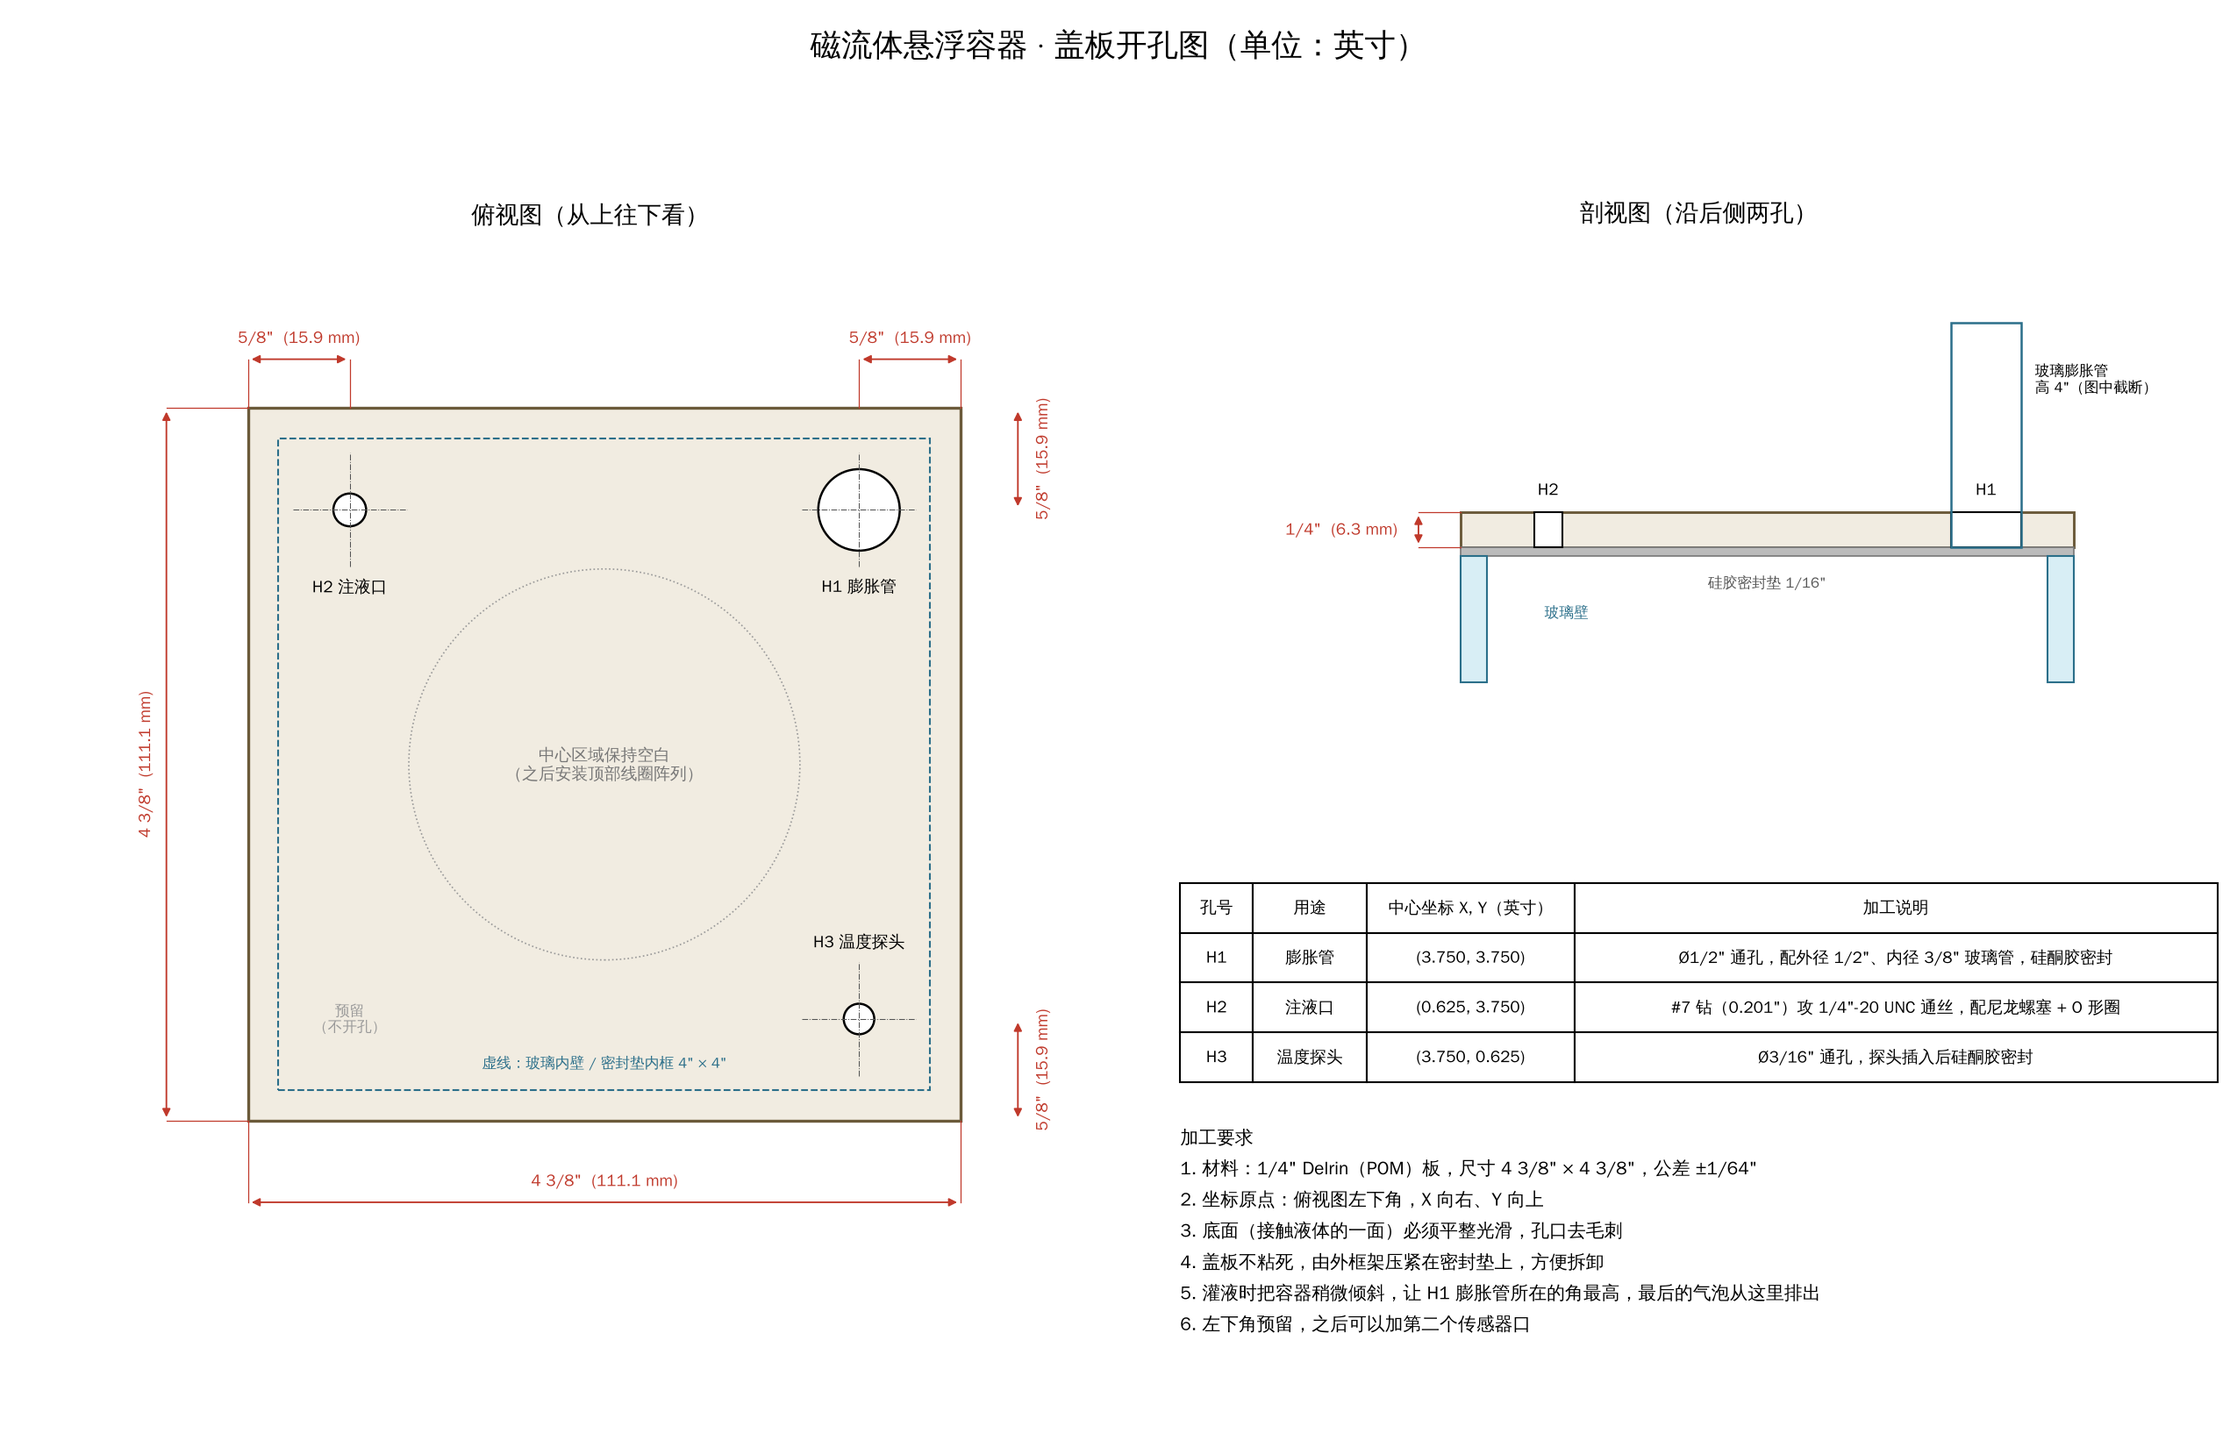
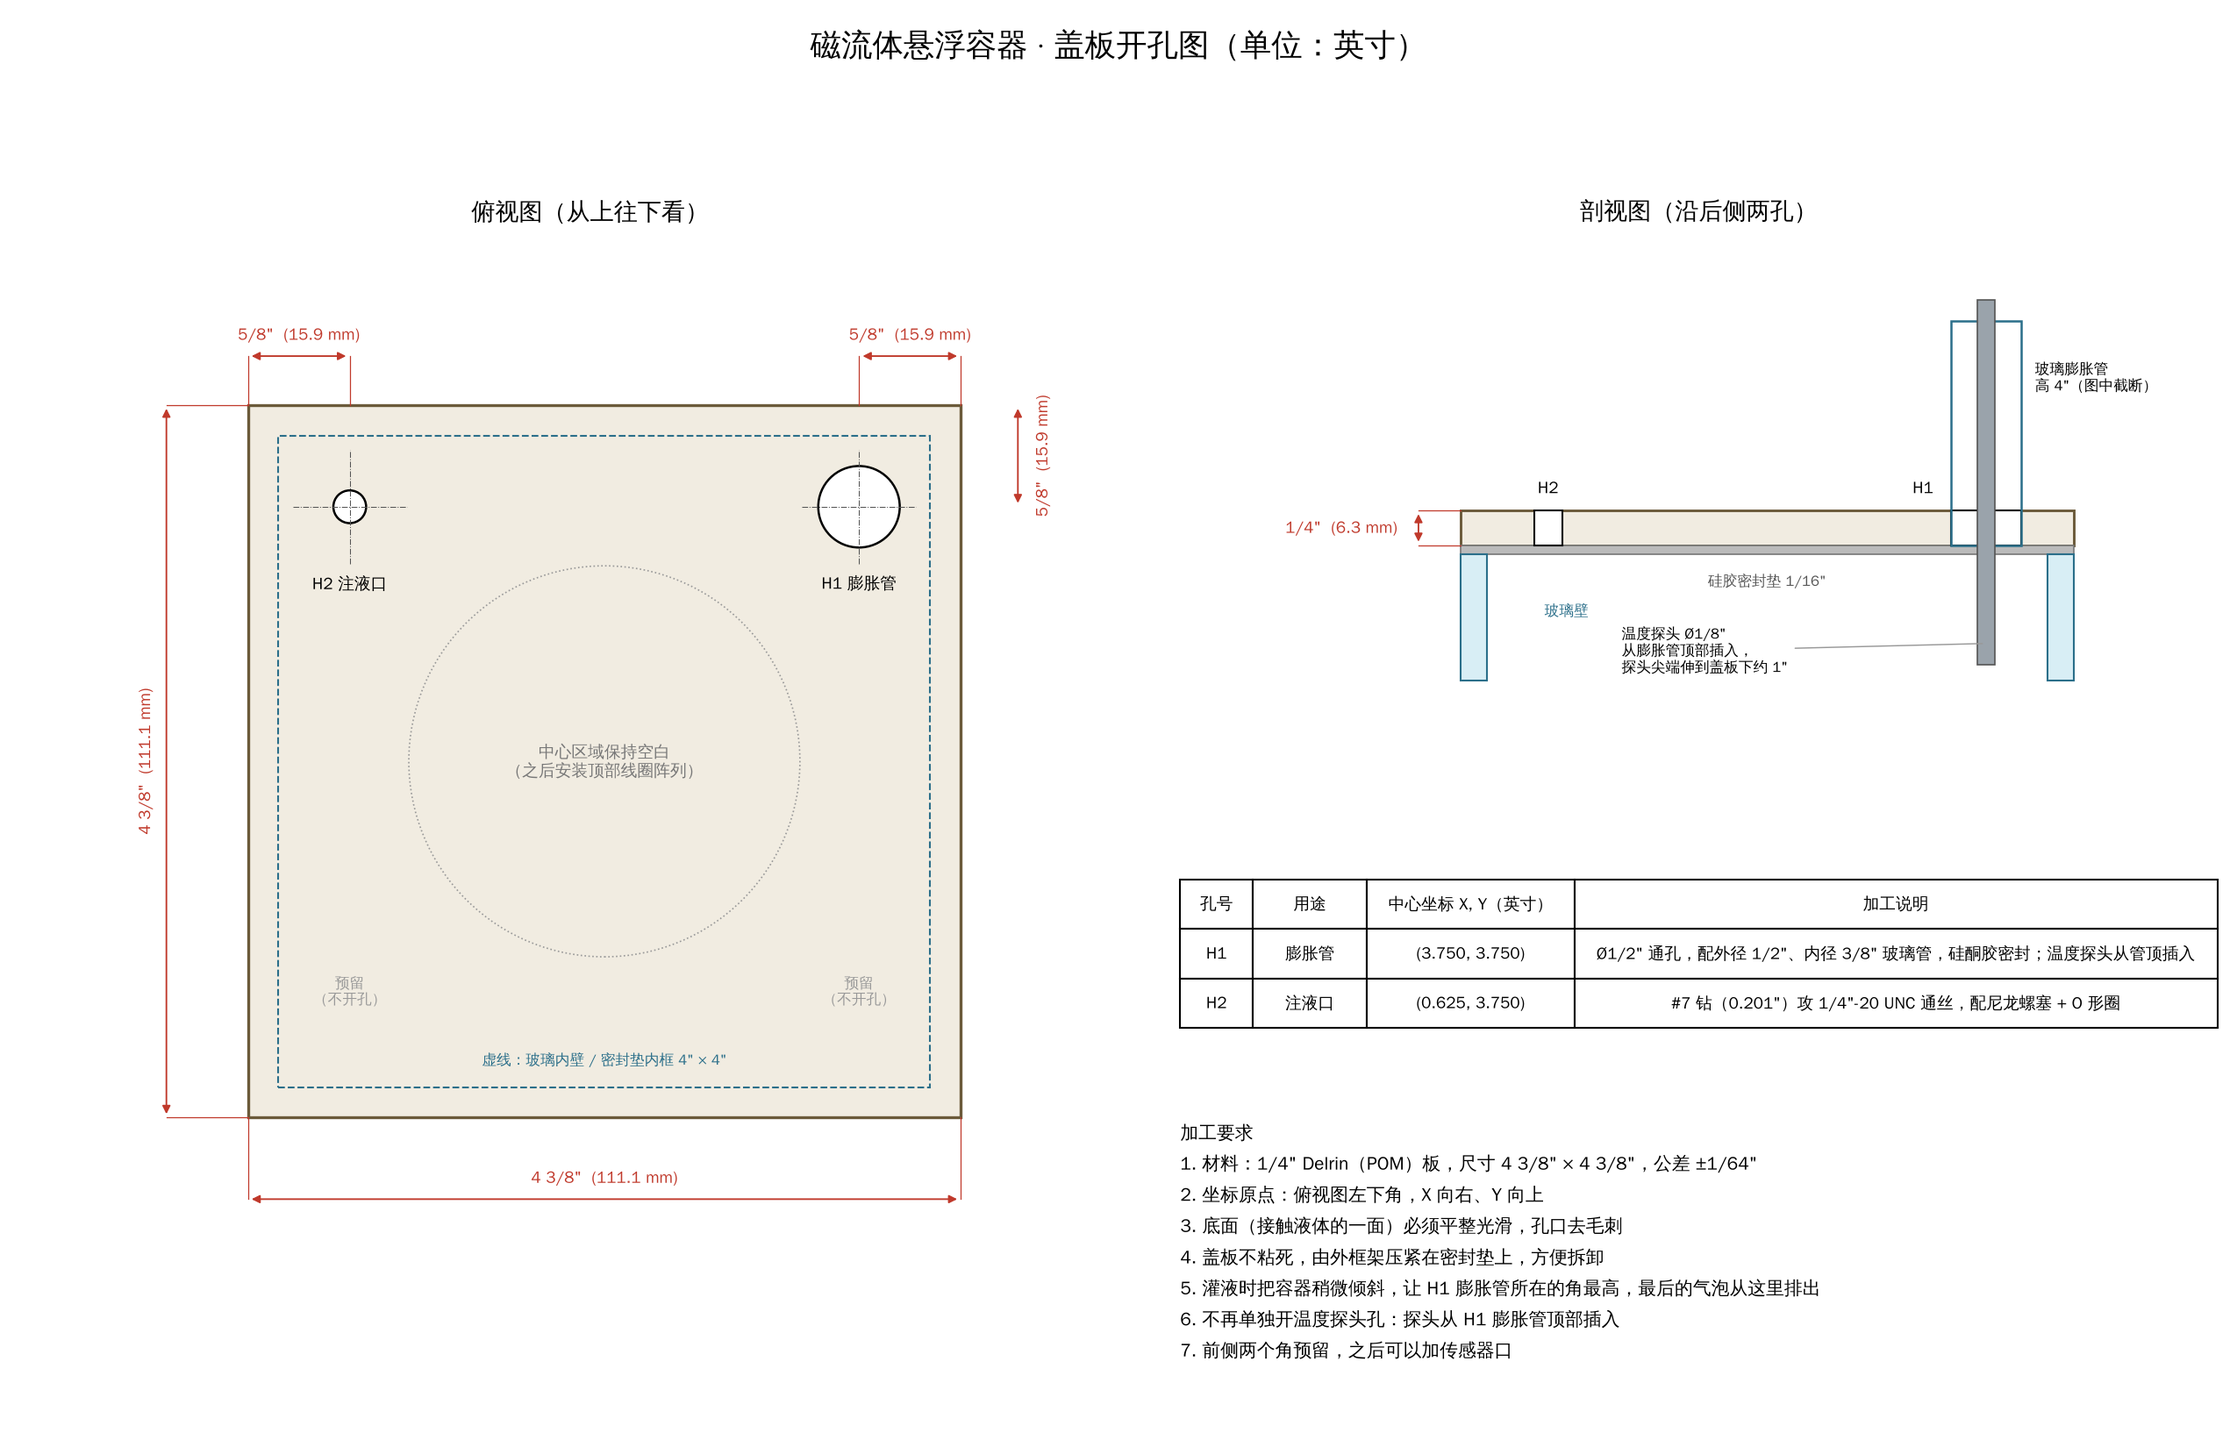
Drop lid probe hole; insert temperature probe through expansion tube
Claude-Session: https://claude.ai/code/session_01JbC6dMQZWVM5Cnm7F4XdEa

diff --git a/ferrofluid_tank/s1_setup.py b/ferrofluid_tank/s1_setup.py
@@ -30,7 +30,7 @@ TOP_Y = LID_Y + LID_T              # lid top
 LIQ_IN_TUBE = 1.0                  # liquid level above lid top
 
 
-def tank_section(ax, x0, h1_at, probe_at):
+def tank_section(ax, x0, h1_at):
     """Glass tank section with lid, tube, probe and blob. x0 = left outer wall."""
     ax.add_patch(Rectangle((x0, 0), OUTER, T, facecolor="#d8eef5", edgecolor=GLASS_EDGE))
     ax.add_patch(Rectangle((x0, T), T, INNER, facecolor="#d8eef5", edgecolor=GLASS_EDGE))
@@ -45,14 +45,15 @@ def tank_section(ax, x0, h1_at, probe_at):
     ax.add_patch(Rectangle((tx - TUBE_OD / 2, LID_Y), TUBE_OD, LID_T + TUBE_H, fill=False,
                            edgecolor=GLASS_EDGE, lw=1.3))
     ax.plot([tx - TUBE_ID / 2, tx + TUBE_ID / 2], [TOP_Y + LIQ_IN_TUBE] * 2, color="#b08900", lw=1.5)
-    # temperature probe through H3
-    px = x0 + probe_at
-    ax.add_patch(Rectangle((px - 0.06, T + INNER - 1.6), 0.12, 1.6 + GASKET + LID_T + 0.4,
+    # temperature probe down the open top of the expansion tube
+    px = tx
+    probe_top = TOP_Y + TUBE_H + 0.4
+    ax.add_patch(Rectangle((px - 0.06, T + INNER - 1.0), 0.12, probe_top - (T + INNER - 1.0),
                            facecolor="#9aa3ab", edgecolor="#555", lw=0.8))
     # ferrofluid blob at the centre
     cx, cy = x0 + OUTER / 2, T + INNER / 2
     ax.add_patch(Circle((cx, cy), BLOB_D / 2, facecolor=FERRO, edgecolor="black"))
-    return (tx, TOP_Y + TUBE_H), (px, TOP_Y + 0.4), (cx, cy)
+    return (tx, TOP_Y + TUBE_H), (px, probe_top), (cx, cy)
 
 
 def side_section(ax):
@@ -69,18 +70,18 @@ def side_section(ax):
     # stand under the tank
     ax.add_patch(Rectangle((-0.2, by0), OUTER + 0.4, -by0, facecolor="#d9d9d9", edgecolor="#888"))
 
-    # tank: left = front (camera side). H1 is at the back (y = 3.75), probe H3 at the front (y = 0.625)
-    (tube_x, tube_top), (probe_x, probe_top), (cx, cy) = tank_section(ax, 0, 3.75, 0.625)
+    # tank: left = front (camera side). H1 is at the back (y = 3.75); the probe goes down H1
+    (tube_x, tube_top), (probe_x, probe_top), (cx, cy) = tank_section(ax, 0, 3.75)
     # grid paper on the back glass
     ax.add_patch(Rectangle((OUTER, T), 0.05, INNER, facecolor="#7fb36a", edgecolor="#4d7d3c"))
 
     # expansion tube passes through the foam top
     ax.add_patch(Rectangle((tube_x - TUBE_OD / 2, TOP_Y + TUBE_H - 0.01), TUBE_OD, 0.01, color=GLASS_EDGE))
     # probe cable out to the logger
-    ax.plot([probe_x, probe_x, 7.3], [probe_top, 9.0, 9.0], color="#555", lw=1.4)
-    ax.add_patch(FancyBboxPatch((7.3, 8.55), 1.4, 0.9, boxstyle="round,pad=0.05",
+    ax.plot([probe_x, probe_x, 7.3], [probe_top, 9.3, 9.3], color="#555", lw=1.4)
+    ax.add_patch(FancyBboxPatch((7.3, 8.85), 1.4, 0.9, boxstyle="round,pad=0.05",
                                 facecolor="#fff3d6", edgecolor="#b58b2a"))
-    ax.text(8.0, 9.0, "温度\n记录器", ha="center", va="center", fontsize=9)
+    ax.text(8.0, 9.3, "温度\n记录器", ha="center", va="center", fontsize=9)
 
     # phone on a tripod in front of the window
     ax.add_patch(FancyBboxPatch((-4.4, 1.2), 0.35, 1.9, boxstyle="round,pad=0.05",
@@ -98,7 +99,7 @@ def side_section(ax):
         ((cx, cy), (2.6, -2.6), "磁流体团 Ø1.2\"\n悬在容器中心"),
         ((0.8, 1.0), (-0.6, -2.6), "甘油水溶液\n灌满容器"),
         ((tube_x, TOP_Y + LIQ_IN_TUBE), (7.3, 4.8), "膨胀管（H1）\n液面高出盖板约 1\""),
-        ((probe_x, 3.0), (-4.6, 7.4), "温度探头（H3）\n插入约 1.5\""),
+        ((probe_x, 3.6), (-4.6, 7.4), "温度探头：从膨胀管顶部插入，\n尖端伸到盖板下约 1\""),
         ((OUTER + 0.05, 1.2), (7.3, 1.2), "后壁外侧贴\n1/8\" 网格纸"),
         ((1.6, TOP_Y), (7.3, 6.1), "Delrin 盖板 + 密封垫\n（由框架压紧，框架未画出）"),
         ((bx0 + bw + 0.5, 3.0), (7.3, 3.0), "泡沫保温箱\n壁厚约 1\""),
@@ -111,7 +112,7 @@ def side_section(ax):
     ax.text(-4.6, 9.3, "← 正面（拍摄方向）", fontsize=9, color="#5b8fc2")
     ax.set_title("侧视剖面图", fontsize=13, fontweight="bold", pad=10)
     ax.set_xlim(-5.3, 10.6)
-    ax.set_ylim(-3.2, 9.9)
+    ax.set_ylim(-3.2, 10.2)
     ax.set_aspect("equal")
     ax.axis("off")
 
@@ -130,8 +131,8 @@ def camera_view(ax):
     ax.add_patch(Rectangle((0, T), OUTER, INNER, facecolor=LIQUID, alpha=0.35, edgecolor="none"))
     ax.add_patch(Rectangle((0, 0), OUTER, TANK_H, fill=False, edgecolor=GLASS_EDGE, lw=1.6))
     ax.add_patch(Rectangle((0, TANK_H + GASKET), OUTER, LID_T, facecolor=LID_FILL, edgecolor="#6b5a3a"))
-    # probe in the front-right corner, tube at the back-right
-    ax.add_patch(Rectangle((3.75 - 0.06, T + INNER - 1.6), 0.12, 1.6 + GASKET + LID_T + 0.3,
+    # probe runs down the expansion tube in the back-right corner
+    ax.add_patch(Rectangle((3.75 - 0.06, T + INNER - 1.0), 0.12, 1.0 + GASKET + LID_T + 1.6,
                            facecolor="#9aa3ab", edgecolor="#555", lw=0.8))
     ax.add_patch(Rectangle((3.75 - TUBE_OD / 2, TOP_Y), TUBE_OD, 1.4, fill=False, edgecolor=GLASS_EDGE))
     cx, cy = OUTER / 2, T + INNER / 2
@@ -155,7 +156,7 @@ def checklist(ax):
         "□ 容器灌满，盖板压紧，H2 螺塞拧紧，膨胀管内液面约 1\"\n"
         "□ 磁流体团在中心，没有接触任何壁面\n"
         "□ 后壁外侧贴好网格纸，手机对准容器中心并固定\n"
-        "□ 温度探头插入约 1.5\"，记录器每分钟记录一次\n"
+        "□ 温度探头从膨胀管顶部插入，尖端在盖板下约 1\"，记录器每分钟记录一次\n"
         "□ 保温箱盖好，远离窗户、暖气、空调出风口\n"
         "□ 拍摄 1 到 2 小时，开始时记下时间和温度\n\n"
         "合格标准：30 分钟内漂移 < 3/16\"，且没有碰壁\n"

diff --git a/ferrofluid_tank/lid_holes.py b/ferrofluid_tank/lid_holes.py
@@ -1,6 +1,7 @@
 """Lid hole drawing for the ferrofluid tank (1/4 in Delrin, 4 3/8 in square).
 
-Three ports in three corners, center kept clear for the top coil array.
+Two ports in the back corners; the temperature probe goes down the expansion
+tube, so the front corners and the center stay clear.
 
 Run: python ferrofluid_tank/lid_holes.py  ->  ferrofluid_tank/lid_holes.png
 """
@@ -21,11 +22,9 @@ EDGE_OFFSET = 5 / 8   # hole center distance from lid edges
 # (label, name, x, y, diameter, spec)
 HOLES = [
     ("H1", "膨胀管", OUTER - EDGE_OFFSET, OUTER - EDGE_OFFSET, 1 / 2,
-     "Ø1/2\" 通孔，配外径 1/2\"、内径 3/8\" 玻璃管，硅酮胶密封"),
+     "Ø1/2\" 通孔，配外径 1/2\"、内径 3/8\" 玻璃管，硅酮胶密封；温度探头从管顶插入"),
     ("H2", "注液口", EDGE_OFFSET, OUTER - EDGE_OFFSET, 0.201,
      "#7 钻（0.201\"）攻 1/4\"-20 UNC 通丝，配尼龙螺塞 + O 形圈"),
-    ("H3", "温度探头", OUTER - EDGE_OFFSET, EDGE_OFFSET, 3 / 16,
-     "Ø3/16\" 通孔，探头插入后硅酮胶密封"),
 ]
 
 
@@ -46,7 +45,8 @@ def top_view(ax):
         below = y > OUTER / 2
         ax.text(x, y - 0.42 if below else y + 0.42, f"{label} {name}", ha="center",
                 va="top" if below else "bottom", fontsize=9, fontweight="bold")
-    ax.text(EDGE_OFFSET, EDGE_OFFSET, "预留\n（不开孔）", ha="center", va="center", fontsize=8, color="#999")
+    for x in (EDGE_OFFSET, OUTER - EDGE_OFFSET):
+        ax.text(x, EDGE_OFFSET + 0.15, "预留\n（不开孔）", ha="center", va="center", fontsize=8, color="#999")
 
     dim_h(ax, 0, OUTER, -0.5, frac(OUTER), ext_from=0)
     dim_v(ax, 0, OUTER, -0.5, frac(OUTER), ext_from=0)
@@ -55,10 +55,6 @@ def top_view(ax):
     ax.annotate("", (OUTER + 0.35, OUTER), (OUTER + 0.35, OUTER - EDGE_OFFSET),
                 arrowprops=dict(arrowstyle="<|-|>", color=DIM, lw=0.9, mutation_scale=9))
     ax.text(OUTER + 0.45, OUTER - EDGE_OFFSET / 2, frac(EDGE_OFFSET), color=DIM, fontsize=9,
-            va="center", rotation=90)
-    ax.annotate("", (OUTER + 0.35, 0), (OUTER + 0.35, EDGE_OFFSET),
-                arrowprops=dict(arrowstyle="<|-|>", color=DIM, lw=0.9, mutation_scale=9))
-    ax.text(OUTER + 0.45, EDGE_OFFSET / 2, frac(EDGE_OFFSET), color=DIM, fontsize=9,
             va="center", rotation=90)
 
     ax.set_title("俯视图（从上往下看）", fontsize=13, fontweight="bold", pad=10)
@@ -78,11 +74,16 @@ def section_view(ax):
     ax.add_patch(Rectangle((OUTER - T, y0 - 1 / 16 - 0.9), T, 0.9, facecolor="#d8eef5", edgecolor=GLASS_EDGE))
     for label, _, x, y, d, _ in HOLES[:2]:
         ax.add_patch(Rectangle((x - d / 2, y0), d, LID_T, facecolor="white", edgecolor="black", lw=1))
-        ax.text(x, y0 + LID_T + 0.1, label, ha="center", va="bottom", fontsize=9, fontweight="bold")
+        ax.text(x - (0.45 if label == "H1" else 0), y0 + LID_T + 0.1, label, ha="center", va="bottom",
+                fontsize=9, fontweight="bold")
     # expansion tube in H1
     x1, d1 = HOLES[0][2], HOLES[0][4]
     ax.add_patch(Rectangle((x1 - d1 / 2, y0), d1, 1.6, fill=False, edgecolor="#2b6f8a", lw=1.2))
     ax.text(x1 + 0.35, y0 + 1.2, "玻璃膨胀管\n高 4\"（图中截断）", fontsize=8, va="center")
+    # temperature probe down the tube into the liquid
+    ax.add_patch(Rectangle((x1 - 1 / 16, y0 - 0.85), 1 / 8, 2.6, facecolor="#9aa3ab", edgecolor="#555", lw=0.8))
+    ax.annotate("温度探头 Ø1/8\"\n从膨胀管顶部插入，\n探头尖端伸到盖板下约 1\"", (x1, y0 - 0.7), (x1 - 2.6, y0 - 0.75),
+                fontsize=8, va="center", arrowprops=dict(arrowstyle="-", color="#999", lw=0.7))
     ax.text(0.6, y0 - 0.5, "玻璃壁", fontsize=8, color=GLASS_EDGE)
     ax.text(OUTER / 2, y0 - 0.2, "硅胶密封垫 1/16\"", fontsize=8, ha="center", va="top", color="#555")
 
@@ -109,7 +110,8 @@ def notes(ax):
         "3. 底面（接触液体的一面）必须平整光滑，孔口去毛刺\n"
         "4. 盖板不粘死，由外框架压紧在密封垫上，方便拆卸\n"
         "5. 灌液时把容器稍微倾斜，让 H1 膨胀管所在的角最高，最后的气泡从这里排出\n"
-        "6. 左下角预留，之后可以加第二个传感器口"
+        "6. 不再单独开温度探头孔：探头从 H1 膨胀管顶部插入\n"
+        "7. 前侧两个角预留，之后可以加传感器口"
     )
     ax.text(0.0, 0.55, text, ha="left", va="top", fontsize=10, linespacing=1.7, transform=ax.transAxes)
     ax.axis("off")

diff --git a/ferrofluid_tank/tank_render.py b/ferrofluid_tank/tank_render.py
@@ -20,7 +20,6 @@ LIQ_IN_TUBE = 1.0
 BLOB_R = 0.6
 H1 = (OUTER - 5 / 8, OUTER - 5 / 8)
 H2 = (5 / 8, OUTER - 5 / 8)
-H3 = (OUTER - 5 / 8, 5 / 8)
 
 GLASS = (0.72, 0.88, 0.95, 0.22)
 GLASS_EDGE = (0.17, 0.44, 0.54, 0.9)
@@ -88,7 +87,7 @@ def draw_tank(ax, explode=0.0, filled=True):
     add_box(ax, (-e, T - e, T, OUTER - T, T, top), GLASS, GLASS_EDGE)                     # C left
     if filled:
         add_box(ax, (T, OUTER - T, T, OUTER - T, T, top), LIQUID, (0, 0, 0, 0), lw=0)
-        add_cylinder(ax, *H3, top - 1.5, top, 1 / 16, "#9aa3ab")                          # probe, wet part
+        add_cylinder(ax, *H1, top - 1.0, top, 1 / 16, "#9aa3ab")                          # probe tip under H1
         add_sphere(ax, (OUTER / 2, OUTER / 2, T + INNER / 2), BLOB_R, "#141414")
     add_box(ax, (OUTER - T + e, OUTER + e, T, OUTER - T, T, top), GLASS, GLASS_EDGE)      # C right
     add_box(ax, (0, OUTER, -e, T - e, T, top), GLASS, GLASS_EDGE)                         # B front
@@ -97,7 +96,7 @@ def draw_tank(ax, explode=0.0, filled=True):
               (OUTER - T, OUTER, T, OUTER - T, gz, gz + GASKET), (0, OUTER, 0, T, gz, gz + GASKET)]:
         add_box(ax, b, GASKET_C, (0.35, 0.35, 0.35, 1), lw=0.3)                          # gasket
     add_box(ax, (0, OUTER, 0, OUTER, lz, lid_top), LID, (0.42, 0.35, 0.23, 1), lw=0.8)   # lid
-    for (hx, hy), r in [(H1, TUBE_OD / 2), (H2, 0.1), (H3, 3 / 32)]:
+    for (hx, hy), r in [(H1, TUBE_OD / 2), (H2, 0.1)]:
         add_disc(ax, hx, hy, lid_top + 0.002, r, "#3a3a3a")
 
     base = tz if e else lid_top
@@ -105,7 +104,8 @@ def draw_tank(ax, explode=0.0, filled=True):
         add_cylinder(ax, *H1, lid_top, lid_top + LIQ_IN_TUBE, TUBE_ID / 2, "#e8c66a", alpha=0.8)
     add_cylinder(ax, *H1, base, base + TUBE_H, TUBE_OD / 2, "#9fd3e6", alpha=0.3)        # tube
     add_cylinder(ax, *H2, base, base + 0.12, 0.22, "#f7f7f2")                             # plug
-    add_cylinder(ax, *H3, base, base + (0.5 if not e else 2.0), 1 / 16, "#9aa3ab")         # probe, dry part
+    pz0 = lid_top if not e else tz + 0.3
+    add_cylinder(ax, *H1, pz0, base + TUBE_H + 0.8, 1 / 16, "#9aa3ab")                    # probe down the tube
     return lid_top, tz
 
 
@@ -132,10 +132,10 @@ def main():
     ax1 = fig.add_subplot(1, 2, 1, projection="3d")
     lid_top, _ = draw_tank(ax1, explode=0.0, filled=True)
     style(ax1, "装配完成（灌液后）", 9.0)
-    label(ax1, (*H1, lid_top + TUBE_H), "H1 膨胀管 Ø1/2\"", dx=0.6, dz=0.3)
+    label(ax1, (*H1, lid_top + 2.6), "H1 膨胀管 Ø1/2\"（管顶开口）", dx=0.7, dz=0.0)
     label(ax1, (*H1, lid_top + LIQ_IN_TUBE), "液面约高出盖板 1\"", dx=1.4, dz=0.6)
     label(ax1, (*H2, lid_top + 0.12), "H2 注液口螺塞", dx=-1.6, dz=1.0)
-    label(ax1, (*H3, lid_top + 0.5), "H3 温度探头", dx=1.2, dz=0.5)
+    label(ax1, (*H1, lid_top + TUBE_H + 0.8), "温度探头：从膨胀管顶部插入，\n尖端伸到盖板下约 1\"", dx=0.6, dz=0.2)
     label(ax1, (0, 0, lid_top), "1/4\" Delrin 盖板", dx=-2.2, dz=0.4)
     label(ax1, (OUTER / 2, OUTER / 2, T + INNER / 2 - BLOB_R), "磁流体团 Ø1.2\"", dx=2.6, dz=-1.6)
     label(ax1, (OUTER, 0, 1.0), "甘油水溶液", dx=1.0, dz=-0.6)
@@ -150,9 +150,9 @@ def main():
     label(ax2, (-e, OUTER / 2, T + 0.6), "C 左壁 / 右壁", dx=-2.4, dz=-1.4)
     label(ax2, (0, 0, T + INNER + e), "1/16\" 硅胶密封垫", dx=-2.6, dz=0.2)
     label(ax2, (0, 0, lid_top), "Delrin 盖板（框架压紧）", dx=-3.0, dz=0.6)
-    label(ax2, (*H1, tz + TUBE_H), "玻璃膨胀管", dx=0.6, dz=0.2)
+    label(ax2, (*H1, tz + 2.0), "玻璃膨胀管", dx=0.7, dz=0.0)
     label(ax2, (*H2, tz + 0.12), "尼龙螺塞 + O 形圈", dx=-2.4, dz=0.8)
-    label(ax2, (*H3, tz + 2.0), "温度探头", dx=1.0, dz=0.3)
+    label(ax2, (*H1, tz + 3.4), "温度探头（穿过膨胀管）", dx=-2.8, dz=0.0)
 
     fig.suptitle("磁流体悬浮容器 · 搭建效果图", fontsize=18, fontweight="bold", y=0.97)
     fig.text(0.5, 0.03, "内腔 4\" × 4\" × 4\"  ·  外形约 4 3/8\" × 4 3/8\" × 4 1/2\"（不含膨胀管）  ·  "
